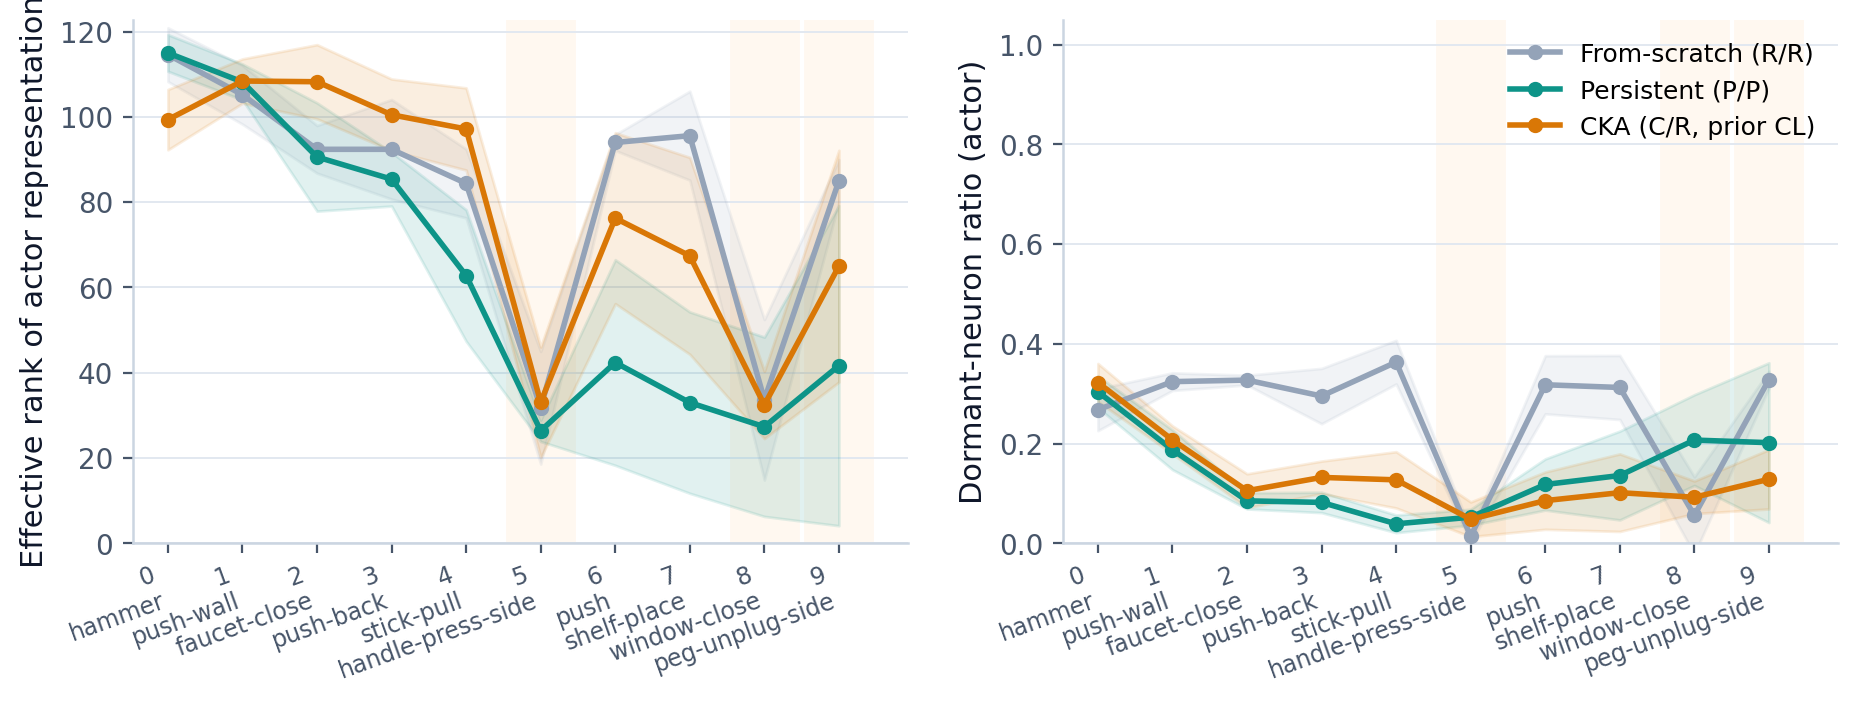
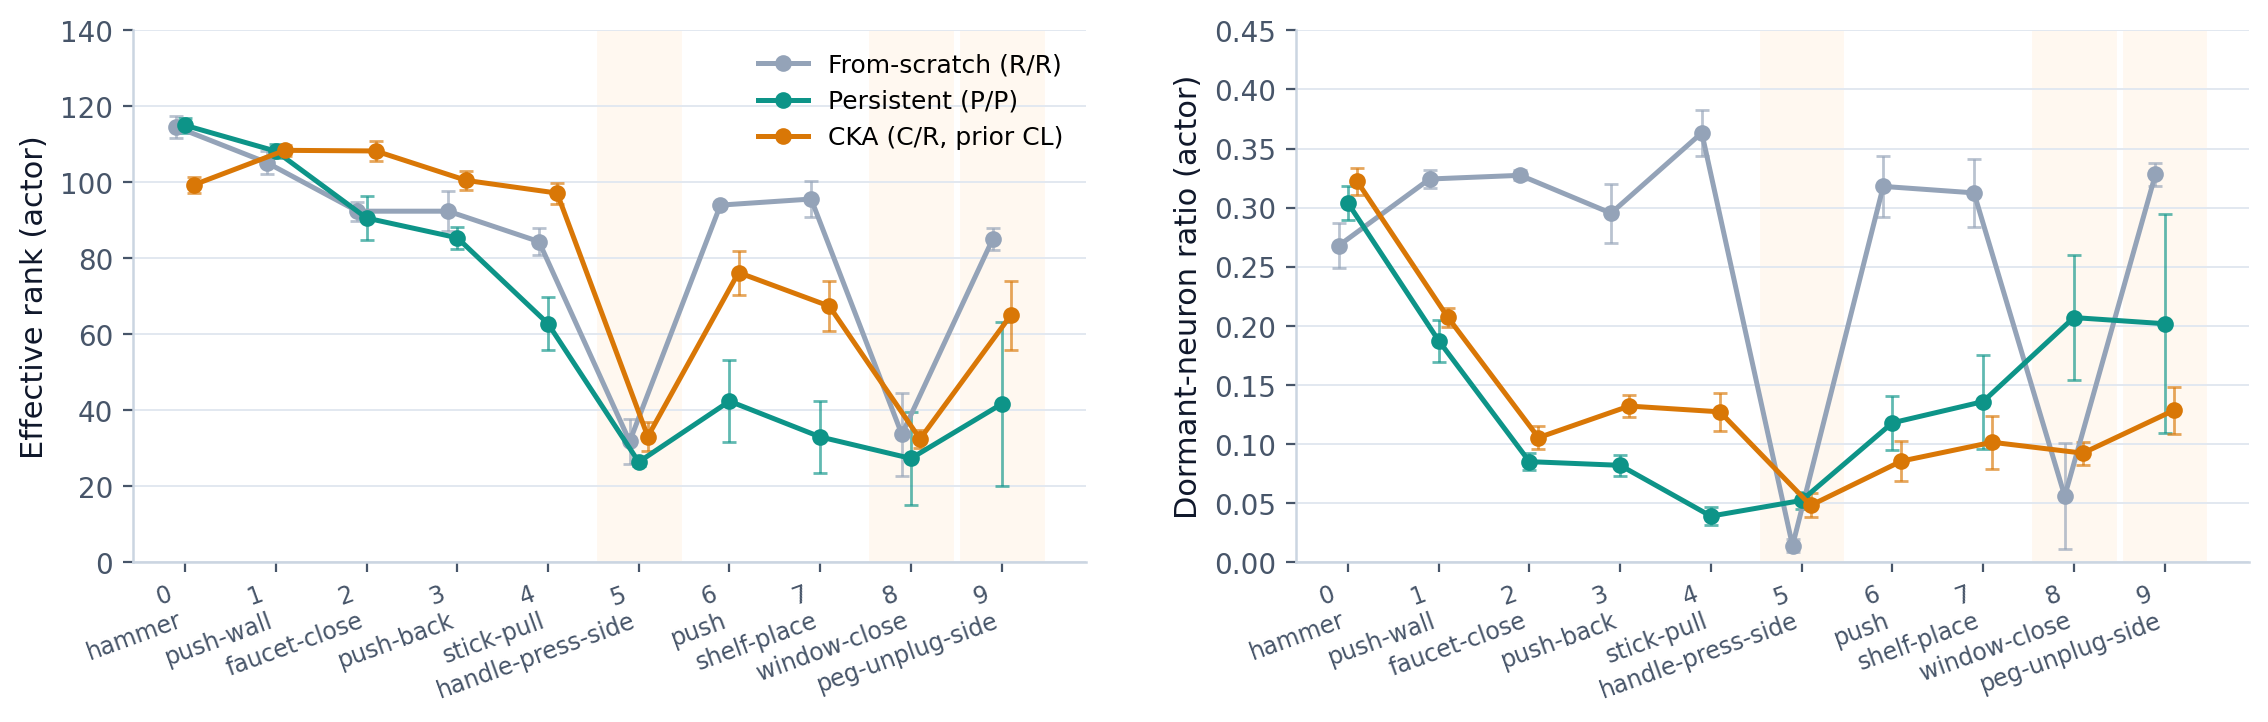
render_paper_figs: error bars + tightened layout for fig3 (no band overlap, no y-label clip)

diff --git a/results/scripts/render_paper_figs.py b/results/scripts/render_paper_figs.py
@@ -225,8 +225,11 @@ def fig_trajectories(save_to):
 def fig_representation_analysis(save_to):
     """Two-panel: actor feature_rank (left) and actor dormant_ratio
     (right) at end-of-task for each of the four baseline cells across
-    the 10 tasks. Decomposed has no rl_metrics so it is absent; the
-    panel is a 'why baselines fail' figure, not a head-to-head.
+    the 10 tasks. Decomposed has no rl_metrics so it is absent.
+
+    Uses error BARS (not shaded bands) to avoid the overlapping-band
+    muddiness that the previous version had, and uses standard error
+    of the mean rather than std so the bars don't dominate the plot.
     """
     rl = load_rl_metrics()
     rl = rl.sort_values("rl_metrics/env_steps").drop_duplicates(
@@ -234,31 +237,37 @@ def fig_representation_analysis(save_to):
 
     cells = [c for c in CELLS if c != "actor=reset-critic=decomposed"]
 
-    fig, axes = plt.subplots(1, 2, figsize=(11, 3.4))
+    fig, axes = plt.subplots(1, 2, figsize=(11.5, 3.8))
     metric_cols = [
-        ("rl_metrics/actor/feature_rank", "Effective rank of actor representation"),
-        ("rl_metrics/actor/dormant_ratio", "Dormant-neuron ratio (actor)"),
+        ("rl_metrics/actor/feature_rank", "Effective rank (actor)", 140),
+        ("rl_metrics/actor/dormant_ratio", "Dormant-neuron ratio (actor)", 0.45),
     ]
-    for ax, (mcol, ylab) in zip(axes, metric_cols):
-        for cell in cells:
+    n_cells = len(cells)
+    dx = 0.10   # small horizontal offset per series
+    for ax, (mcol, ylab, ymax_hard) in zip(axes, metric_cols):
+        for i, cell in enumerate(cells):
             _, label, color = CELLS[cell]
             sub = rl[rl["cell"] == cell]
             g = sub.groupby("task_idx")[mcol].agg(["mean", "std", "count"]).reindex(range(10))
-            x = np.arange(10)
-            means = g["mean"].fillna(0).to_numpy()
-            stds = g["std"].fillna(0).to_numpy()
-            ax.plot(x, means, color=color, lw=2.0, marker="o", ms=4.5,
+            means = g["mean"].to_numpy()
+            stds = g["std"].to_numpy()
+            counts = g["count"].fillna(0).to_numpy()
+            sem = np.where(counts > 1, stds / np.sqrt(np.maximum(counts, 1)), 0)
+            offset = (i - (n_cells - 1) / 2) * dx
+            x = np.arange(10) + offset
+            ax.plot(x, means, color=color, lw=1.8, marker="o", ms=5,
                     label=label, zorder=5)
-            ax.fill_between(x, means - stds, means + stds, color=color,
-                            alpha=0.12, zorder=2)
-        ymax = max(1.05 * np.nanmax(g["mean"] + g["std"]) if mcol.endswith("rank") else 0.5, 1.05)
-        setup_ax(ax, ymax=ymax)
+            ax.errorbar(x, means, yerr=sem, fmt="none", ecolor=color,
+                        alpha=0.65, capsize=2.5, lw=1.0, zorder=4)
+        setup_ax(ax, ymax=ymax_hard)
         task_xticks(ax)
         ax.set_ylabel(ylab)
         for k in (5, 8, 9):
             ax.axvspan(k - 0.45, k + 0.45, color="#fff8f0", zorder=0)
 
-    axes[1].legend(loc="upper right", fontsize=9)
+    axes[0].legend(loc="upper right", fontsize=9)
+    # Tighten the layout so the y-axis title doesn't get clipped on save.
+    fig.subplots_adjust(left=0.07, right=0.99, bottom=0.22, top=0.92, wspace=0.22)
     fig.savefig(save_to)
     plt.close(fig)
 
